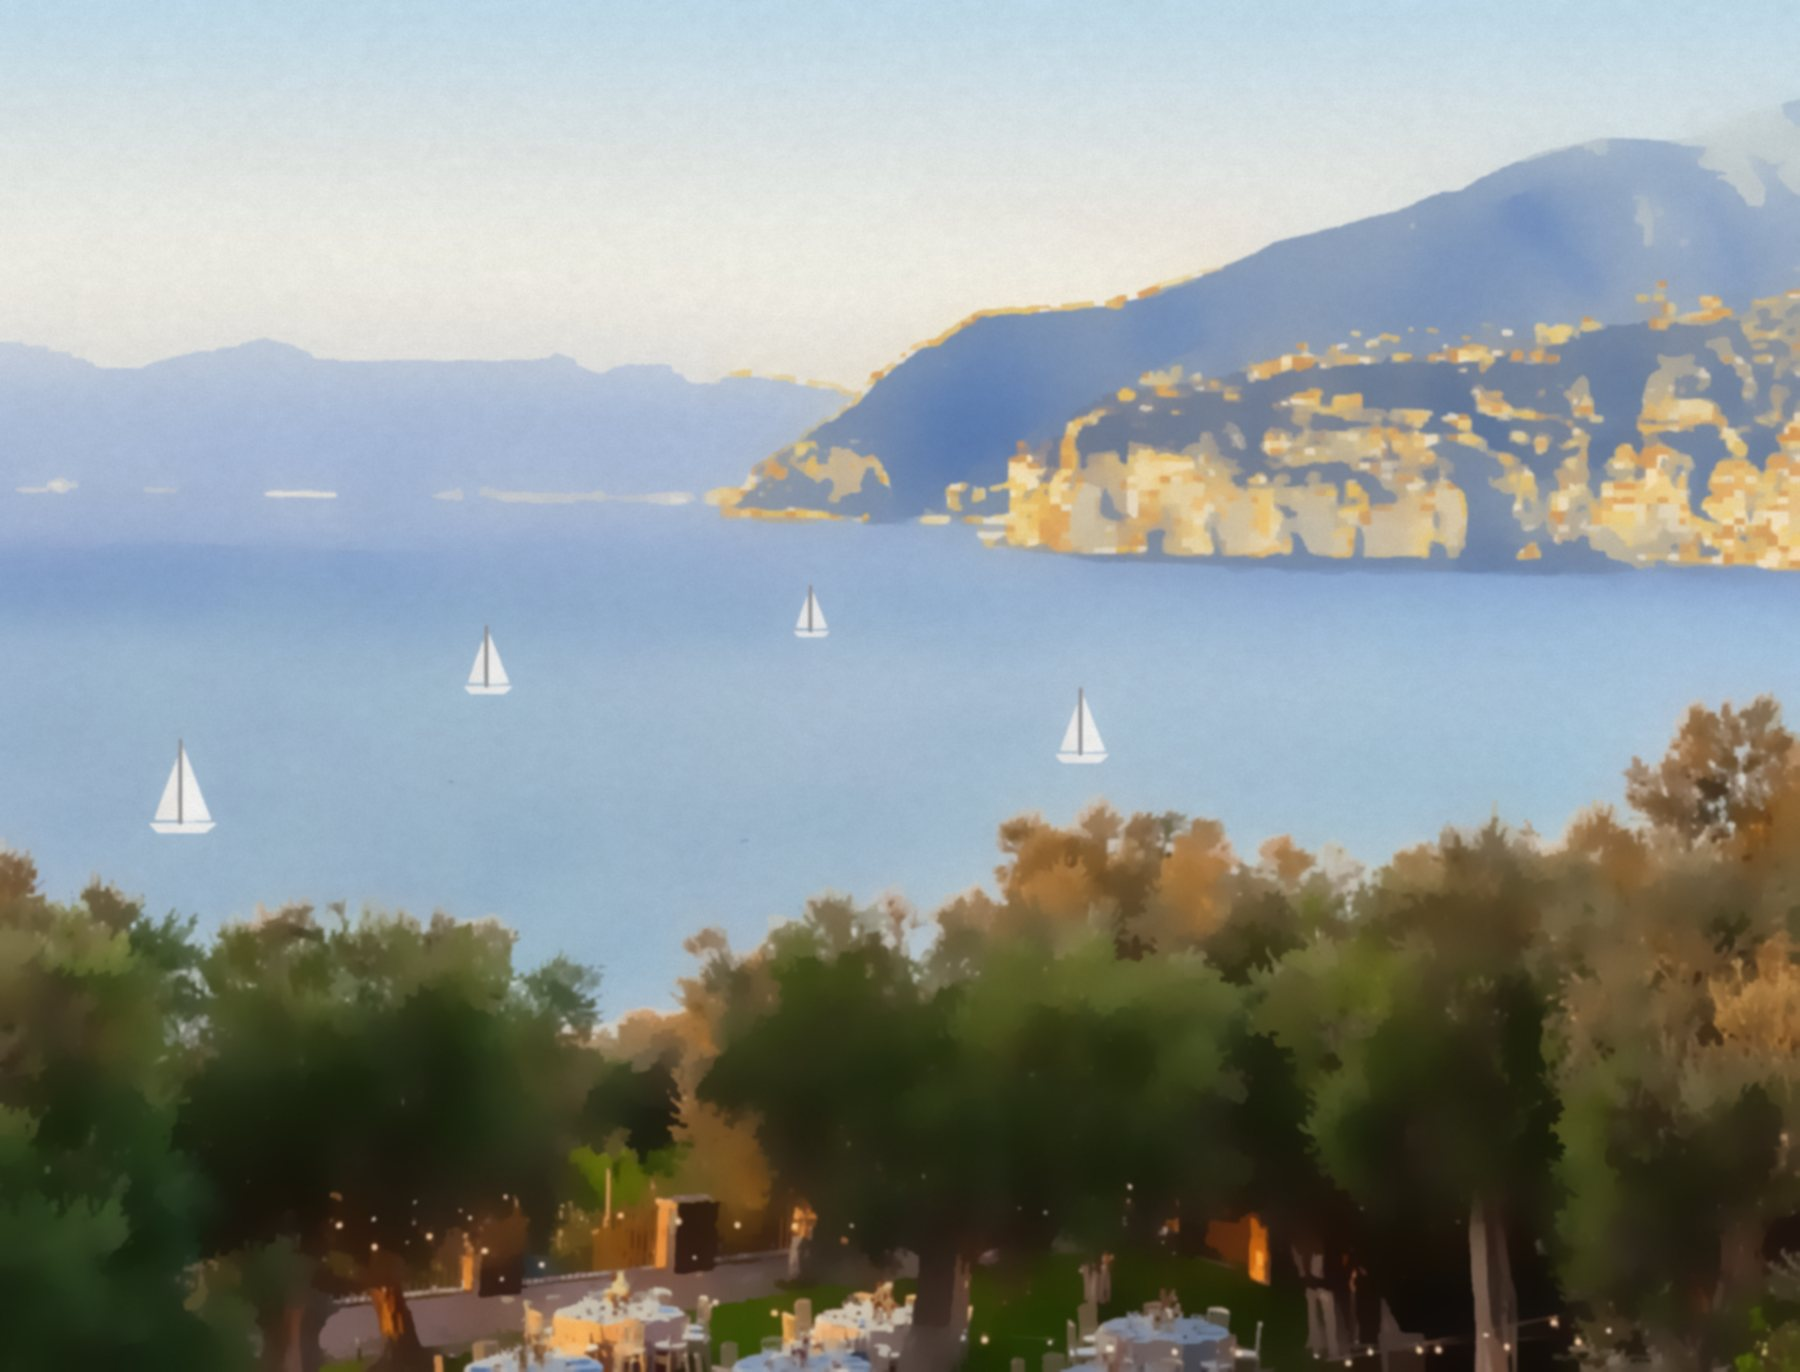
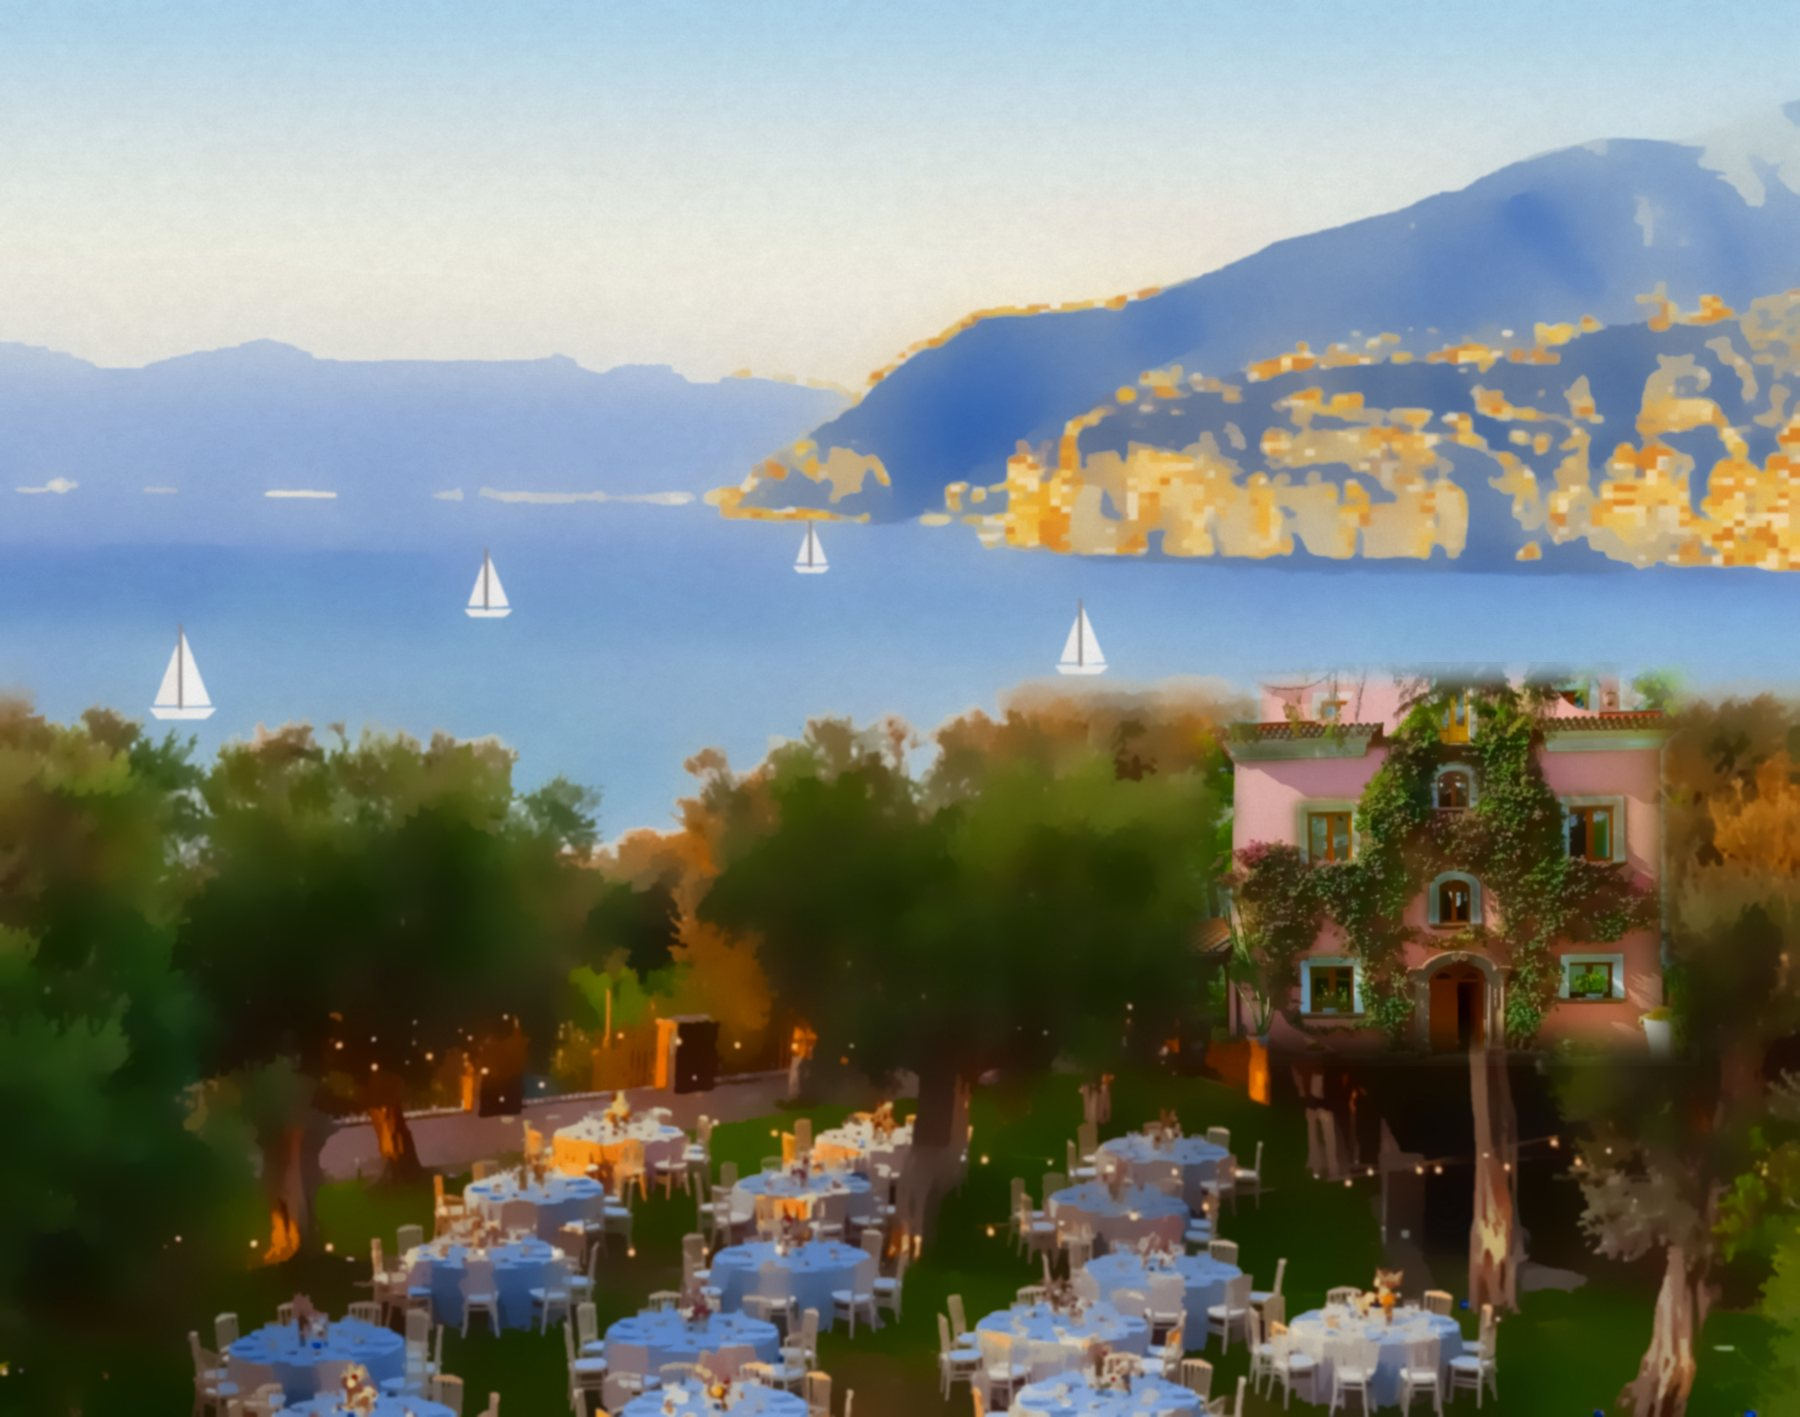
Title backdrop: pink villa with bougainvillea among the trees, richer colour, a touch of the lit garden
Claude-Session: https://claude.ai/code/session_01UymhP7iFRcx3FYSxcPosG7

diff --git a/assets/css/styles.css b/assets/css/styles.css
@@ -277,9 +277,9 @@ html.paged .fade.shown { opacity: 1; transform: none; }
   position: absolute; inset: 0;
   width: 100%; height: 100%; max-width: none;
   object-fit: cover;
-  object-position: 55% 35%;
-  -webkit-mask-image: linear-gradient(to bottom, #000 80%, transparent);
-  mask-image: linear-gradient(to bottom, #000 80%, transparent);
+  object-position: 55% 44%;
+  -webkit-mask-image: linear-gradient(to bottom, #000 86%, transparent);
+  mask-image: linear-gradient(to bottom, #000 86%, transparent);
 }
 .hero-lemons {
   position: absolute; top: -10px; left: -8px; z-index: 1;
@@ -498,7 +498,7 @@ td.num { font-variant-numeric: tabular-nums; white-space: nowrap; font-weight: 5
 .footer-names { font-family: var(--display); font-style: italic; font-size: var(--step-2); color: var(--cobalt); }
 
 @media (max-width: 760px) {
-  .hero-bg { object-position: 72% 40%; }
+  .hero-bg { object-position: 86% 40%; }
   .page-hero { padding-top: clamp(120px, 20vh, 170px); }
   .arch-sprig { width: 150px; height: 106px; left: -50px; bottom: -30px; }
   /* on phones the three portraits stay in a row, a little closer together */

diff --git a/index.html b/index.html
@@ -71,7 +71,7 @@
   <main>
     <!-- The title page: a painting of the view from Capo Santa Fortunata, framed by lemons. -->
     <section class="page-hero fade" id="top">
-      <img class="hero-bg" src="assets/img/hero-venue.jpg" alt="" width="1800" height="1372">
+      <img class="hero-bg" src="assets/img/hero-venue.jpg" alt="" width="1800" height="1417">
       <svg class="hero-lemons" aria-hidden="true" focusable="false"><use href="#lemon-branch"/></svg>
       <svg class="hero-lemons hero-lemons-right" aria-hidden="true" focusable="false"><use href="#lemon-branch"/></svg>
       <div class="hero-text">

diff --git a/tools/paint-venue.py b/tools/paint-venue.py
@@ -1,54 +1,94 @@
 """Paint a venue photo as a sunny, painterly view (lemon branches are added by the page).
 
-    python3 tools/paint-venue.py <photo> <out.jpg> <top> <bottom> [seed] [extras]
+    python3 tools/paint-venue.py <photo> <out.jpg> <top> <bottom> [options]
 
-extras: none, or villa:<photo>:<x>,<y>,<w>,<h>:<cx>,<cy>,<width>, which lifts
-that box out of another photo (a villa in its trees) and blends it into the
-view, centred at cx,cy (fractions of the view) and scaled to width px.
+    --cut A,B        drop photo rows A..B (a calm band of sea) so more of the
+                     garden fits below the view
+    --villa SPEC     lift a villa out of another photo and blend it in:
+                     <photo>:<x>,<y>,<w>,<h>:<cx>,<cy>,<width>[:cream]
+                     box in that photo, centred at cx,cy (fractions of the
+                     view), scaled to width px; "cream" repaints the walls
+                     cream, otherwise its real colours (pink, bougainvillea) stay
+    --vivid F        extra colour saturation at the end (1 = none)
+    --town-soft F    blur of the pastel town on the far cliffs
+    --seed N
 
 Needs opencv-python-headless and numpy.
 """
-import sys
+import argparse
 import cv2
 import numpy as np
 
-src, out, y0, y1 = sys.argv[1], sys.argv[2], int(sys.argv[3]), int(sys.argv[4])
-rng = np.random.default_rng(int(sys.argv[5]) if len(sys.argv) > 5 else 4)
-extras = sys.argv[6] if len(sys.argv) > 6 else "none"
-VIVID = float(sys.argv[8]) if len(sys.argv) > 8 else 1.0   # extra colour saturation
-TOWN_SOFT = float(sys.argv[7]) if len(sys.argv) > 7 else 1.2   # blur of the pastel town; higher is softer
+ap = argparse.ArgumentParser()
+ap.add_argument("src"); ap.add_argument("out"); ap.add_argument("top", type=int); ap.add_argument("bottom", type=int)
+ap.add_argument("--cut"); ap.add_argument("--villa")
+ap.add_argument("--vivid", type=float, default=1.0); ap.add_argument("--town-soft", type=float, default=1.2)
+ap.add_argument("--seed", type=int, default=4)
+ap.add_argument("--boats", default="0.1,0.6,1.4;0.27,0.5,1.0;0.45,0.46,0.75;0.6,0.55,1.1", help="x,y,size;... as fractions of the view")
+args = ap.parse_args()
+rng = np.random.default_rng(args.seed)
+VIVID, TOWN_SOFT = args.vivid, args.town_soft
+BOATS = [tuple(map(float, b.split(","))) for b in args.boats.split(";") if b]
 
-img = cv2.imread(src)[y0:y1]
+img = cv2.imread(args.src)
+if args.cut:
+    c0, c1 = map(int, args.cut.split(","))
+    seam = 40   # cross-fade the sea either side of the cut
+    above, below = img[:c0 + seam].astype(np.float32), img[c1:].astype(np.float32)
+    t = np.linspace(0, 1, seam)[:, None, None]
+    mixed = above[-seam:] * (1 - t) + below[:seam] * t
+    img = np.vstack([above[:-seam], mixed, below[seam:]]).astype(np.uint8)
+    args.bottom -= c1 - c0
+img = img[args.top:args.bottom]
 W = 1800
 img = cv2.resize(img, (W, int(img.shape[0] * W / img.shape[1])), interpolation=cv2.INTER_CUBIC)
 H = img.shape[0]
 
-if extras.startswith("villa:"):
-    _, vsrc, box, at = extras.split(":")
+
+def paste_villa(dst, spec, tex):
+    parts = spec.split(":")
+    vsrc, box, at = parts[0], parts[1], parts[2]
+    cream = len(parts) > 3 and parts[3] == "cream"
     bx, by, bw, bh = map(int, box.split(","))
     cx, cy, vw = map(float, at.split(","))
     patch = cv2.imread(vsrc)[by:by + bh, bx:bx + bw]
     vh = int(bh * vw / bw); vw = int(vw)
-    patch = cv2.resize(patch, (vw, vh), interpolation=cv2.INTER_CUBIC).astype(np.float32)
-    m = np.zeros((vh, vw), np.float32)
-    cv2.ellipse(m, (vw // 2, vh // 2), (int(vw * 0.42), int(vh * 0.4)), 0, 0, 360, 1, -1)
-    m = cv2.GaussianBlur(m, (0, 0), vw * 0.06)[..., None]
+    patch = cv2.resize(patch, (vw, vh), interpolation=cv2.INTER_AREA)
+    fx = np.clip(np.minimum(np.arange(vw), vw - 1 - np.arange(vw)) / (vw * 0.12), 0, 1)
+    fy = np.clip(np.minimum(np.arange(vh) / 0.6, vh - 1 - np.arange(vh)) / (vh * 0.12), 0, 1)   # sky does the top edge
+    m = (np.minimum(fy[:, None], fx[None, :]) ** 1.5).astype(np.float32)   # soft edges all round
+    ph = cv2.cvtColor(patch, cv2.COLOR_BGR2HSV).astype(np.float32)
+    skyp = (((ph[..., 0] > 88) & (ph[..., 0] < 128) & (ph[..., 2] > 140)) | ((ph[..., 1] < 18) & (ph[..., 2] > 200))).astype(np.float32)
+    skyp[int(vh * 0.75):] = 0                        # only the sky and clouds above the trees
+    skyp = cv2.dilate(skyp, np.ones((5, 5), np.uint8))
+    m *= 1 - skyp
+    m = cv2.GaussianBlur(m, (0, 0), vw * 0.012)[..., None]
+    pv = patch.astype(np.float32)
     x0, y0 = int(W * cx - vw / 2), int(H * cy - vh / 2)
     xs, ys = max(0, x0), max(0, y0)
     xe, ye = min(W, x0 + vw), min(H, y0 + vh)
-    pv, mv = patch[ys - y0:ye - y0, xs - x0:xe - x0], m[ys - y0:ye - y0, xs - x0:xe - x0]
-    roi = img[ys:ye, xs:xe].astype(np.float32)
-    pv = pv * (roi.mean((0, 1)) / pv.mean((0, 1))) ** 0.5   # match the light of the view
-    # warm the walls to sunlit cream and the roofs to terracotta (never pink)
-    ph = cv2.cvtColor(np.clip(pv, 0, 255).astype(np.uint8), cv2.COLOR_BGR2HSV).astype(np.float32)
-    wall = (ph[..., 2] > 95) & (ph[..., 1] < 80)
-    lilac = (ph[..., 0] > 115) | (ph[..., 0] < 8)
-    ph[..., 0][lilac] = 16
-    ph[..., 0][wall] = 21; ph[..., 1][wall] = 70; ph[..., 2][wall] = np.clip(ph[..., 2][wall] * 1.06, 0, 255)
-    roof = (ph[..., 2] > 120) & ((ph[..., 0] < 22) | (ph[..., 0] > 160)) & (ph[..., 1] >= 40)
-    ph[..., 0][roof] = 11; ph[..., 1][roof] = np.clip(ph[..., 1][roof] * 1.5, 0, 200)
-    pv = cv2.cvtColor(ph.astype(np.uint8), cv2.COLOR_HSV2BGR).astype(np.float32)
-    img[ys:ye, xs:xe] = np.clip(roi * (1 - mv) + pv * mv, 0, 255).astype(np.uint8)
+    pv, mv = pv[ys - y0:ye - y0, xs - x0:xe - x0], m[ys - y0:ye - y0, xs - x0:xe - x0]
+    roi = dst[ys:ye, xs:xe].astype(np.float32)
+    ph = cv2.cvtColor(pv.astype(np.uint8), cv2.COLOR_BGR2HSV).astype(np.float32)
+    if cream:   # sunlit cream walls and terracotta roofs
+        wall = (ph[..., 2] > 95) & (ph[..., 1] < 80)
+        lilac = (ph[..., 0] > 115) | (ph[..., 0] < 8)
+        ph[..., 0][lilac] = 16
+        ph[..., 0][wall] = 21; ph[..., 1][wall] = 70
+    else:       # keep the real pink walls; make the bougainvillea sing
+        flower = (ph[..., 0] > 138) & (ph[..., 0] < 171) & (ph[..., 1] > 55)
+        ph[..., 1][flower] = np.clip(ph[..., 1][flower] * 1.7 + 20, 0, 255)
+        ph[..., 0][flower] = 164
+        green = (ph[..., 0] > 25) & (ph[..., 0] < 85)
+        ph[..., 1][green] = np.clip(ph[..., 1][green] * 1.2, 0, 255)
+    ph[..., 2] = np.clip(255 * (ph[..., 2] / 255) ** 0.85 + 6, 0, 255)   # same lifted shadows as the view
+    pv = cv2.cvtColor(ph.astype(np.uint8), cv2.COLOR_HSV2BGR)
+    # a lighter version of the paint pass, so the villa stays crisp up front
+    pv = cv2.pyrMeanShiftFiltering(pv, 8, 22)
+    pv = cv2.edgePreservingFilter(pv, flags=1, sigma_s=10, sigma_r=0.25)
+    pv = cv2.GaussianBlur(pv, (0, 0), 0.9).astype(np.float32) * tex[ys:ye, xs:xe, None]
+    dst[ys:ye, xs:xe] = np.clip(roi * (1 - mv) + pv * mv, 0, 255).astype(np.uint8)
+
 
 # ---- colour: golden afternoon, no pink in the sky, bluer sea, richer greens
 hsv = cv2.cvtColor(img, cv2.COLOR_BGR2HSV).astype(np.float32)
@@ -103,7 +143,7 @@ def sailboat(x, y, s):
     cv2.fillPoly(boats, [np.array([[x, y - 3], [x, y - 58 * s], [x + 22 * s, y - 4]], np.int32)], (250, 252, 253), cv2.LINE_AA)
     cv2.fillPoly(boats, [np.array([[x - 3, y - 4], [x - 3, y - 46 * s], [x - 18 * s, y - 4]], np.int32)], (232, 238, 244), cv2.LINE_AA)
     cv2.line(boats, (int(x), int(y)), (int(x), int(y - 60 * s)), (120, 125, 135), 2, cv2.LINE_AA)
-for (fx, fy, s) in [(0.1, 0.6, 1.4), (0.27, 0.5, 1.0), (0.45, 0.46, 0.75), (0.6, 0.55, 1.1)]:
+for (fx, fy, s) in BOATS:
     sailboat(W * fx, H * fy, s)
 img = cv2.GaussianBlur(boats, (0, 0), 0.9)
 
@@ -118,9 +158,15 @@ strokes = cv2.resize(strokes, (W, H))
 strokes = cv2.filter2D(strokes, -1, np.ones((1, 9), np.float32) / 9)  # horizontal brush drag
 tex = 0.95 + 0.05 * grain + 0.06 * (strokes - 0.5)
 p = np.clip(p.astype(np.float32) * tex[..., None], 0, 255).astype(np.uint8)
+if args.villa:
+    paste_villa(p, args.villa, tex)
 if VIVID != 1.0:
     q = cv2.cvtColor(p, cv2.COLOR_BGR2HSV).astype(np.float32)
     q[..., 1] = np.clip(q[..., 1] * VIVID, 0, 255)
     p = cv2.cvtColor(q.astype(np.uint8), cv2.COLOR_HSV2BGR)
-cv2.imwrite(out, p, [cv2.IMWRITE_JPEG_QUALITY, 84])
+cv2.imwrite(args.out, p, [cv2.IMWRITE_JPEG_QUALITY, 84])
 print(W, H)
+# Current title page backdrop:
+#   python3 tools/paint-venue.py assets/img/venue-garden.jpg assets/img/hero-venue.jpg 235 1300 --cut 680,800 \
+#     --villa "tools/src/villa-front.jpg:250,118,620,482:0.8,0.61,520" --town-soft 3 --vivid 1.45 \
+#     --boats "0.1,0.5,1.4;0.27,0.43,1.0;0.45,0.4,0.75;0.6,0.47,1.1"
